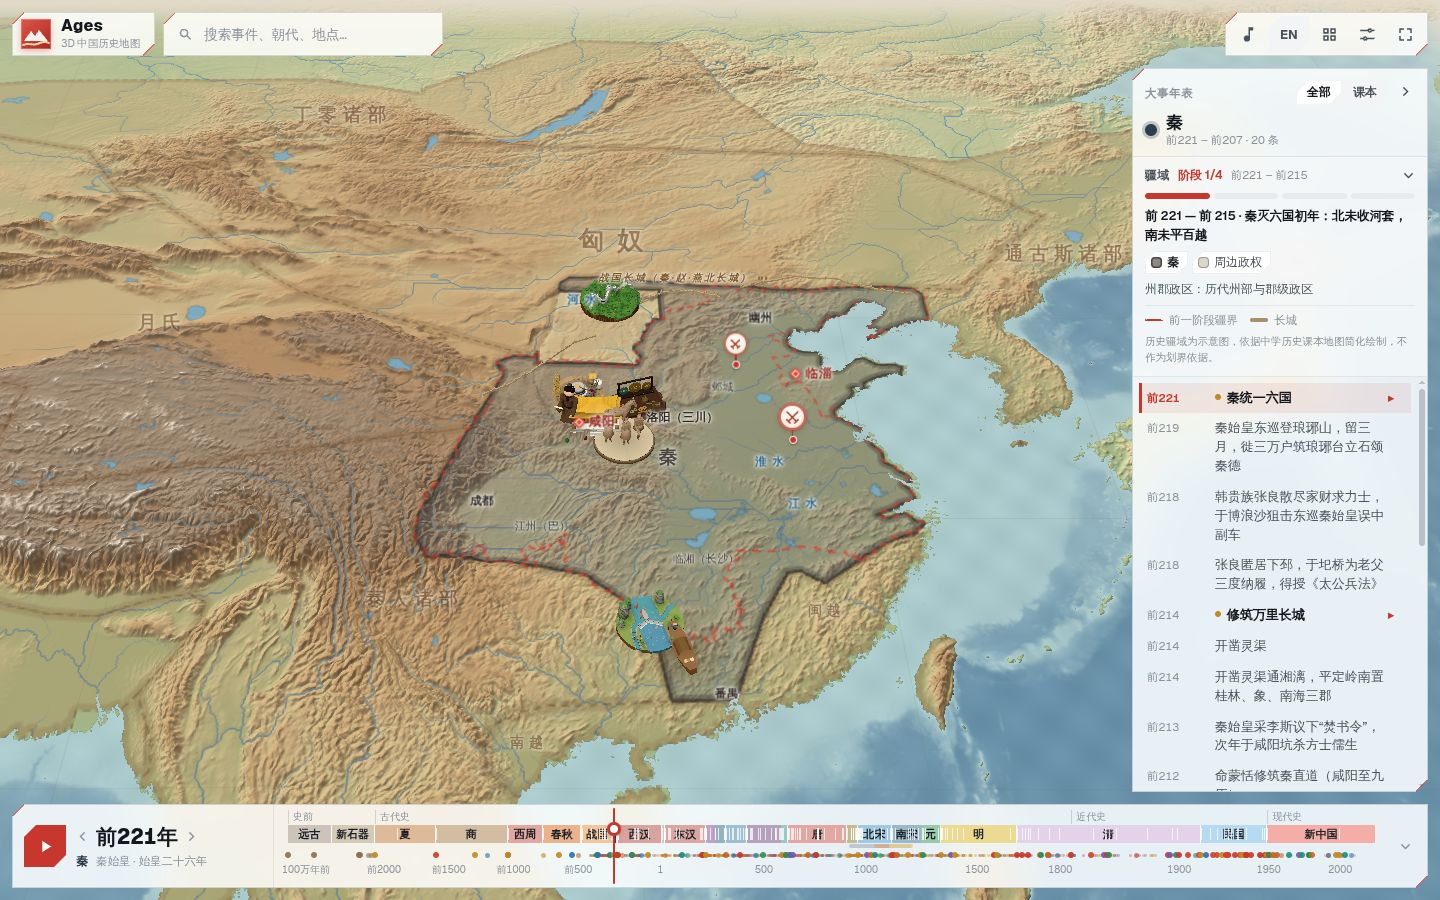
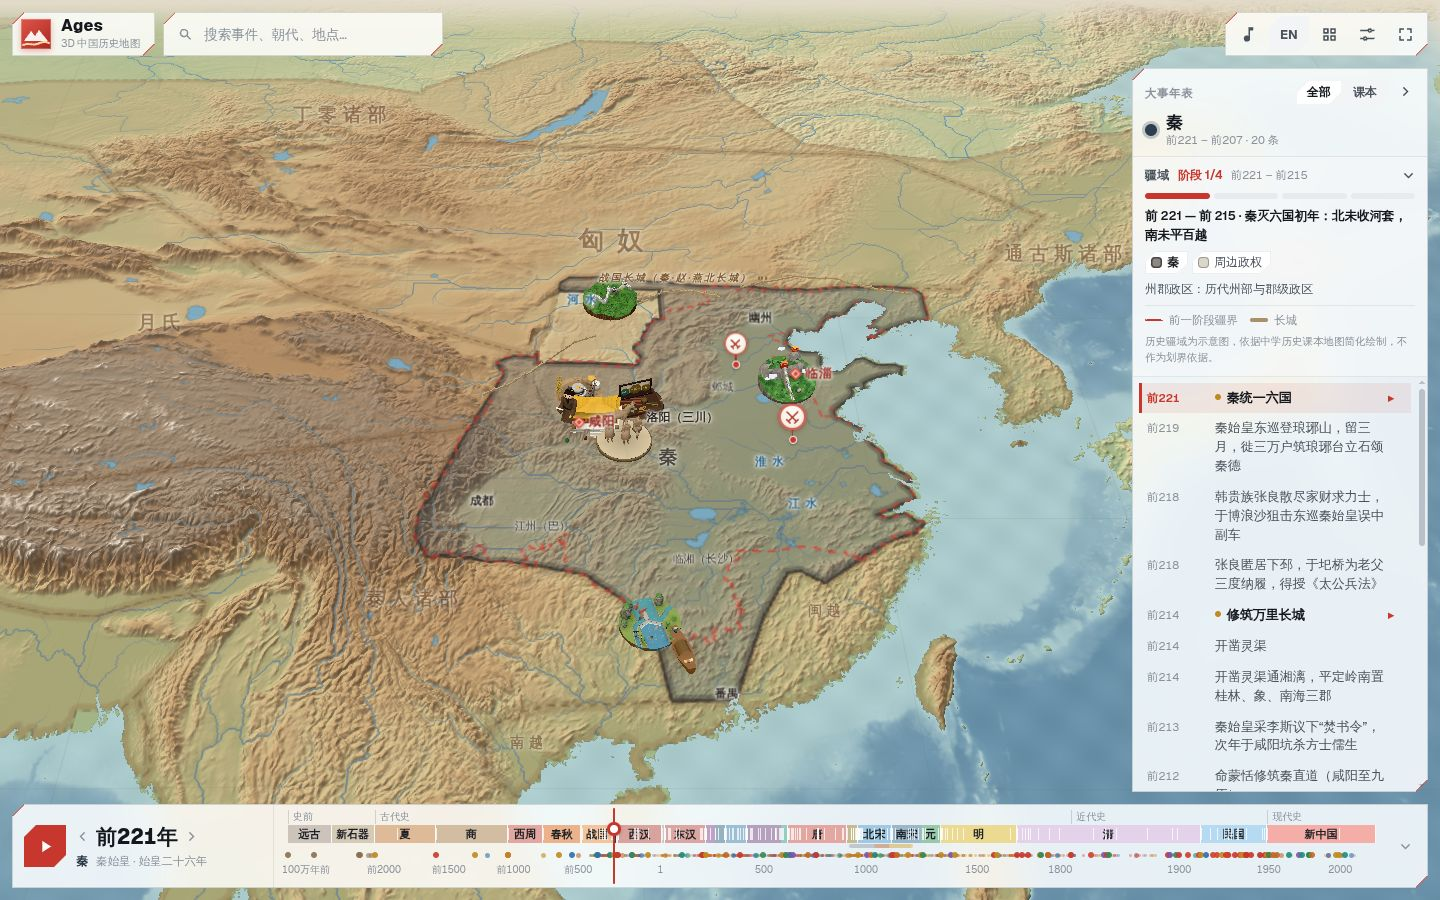
Stand Mount Tai as a model in the feng-shan dynasties; site labels step aside for their own model

diff --git a/src/shared/data/life.ts b/src/shared/data/life.ts
@@ -158,6 +158,8 @@ C('hufu', ['胡服骑射', 'Hu dress and mounted archery'], [114.5, 36.6], hero(
 P('孟子', [116.98, 35.4], { prop: 'book', tier: 2, desc: ['儒家“亚圣”，主张仁政与“民为贵”。', 'Confucianism\'s Second Sage, who preached benevolent rule: "the people matter most".'] });
 
 era('qin');
+B('taishan-qin', ['泰山', 'Mount Tai'], [117.1, 36.25], hero('china/cn_taishan', 'temple'),
+  ['秦始皇东巡登泰山封禅，刻石颂秦德，开历代帝王泰山封禅之先。', 'The First Emperor climbed Mount Tai to perform the feng and shan rites, the first of the imperial sacrifices to Heaven there.'], { wiki: ['封禅', 'Feng Shan'] });
 P('李斯', [108.2, 33.8], { prop: 'brush', desc: ['秦朝丞相，推行小篆“书同文”，统一文字。', 'Qin chancellor who standardised writing in small seal script.'] });
 C('banliang', ['统一度量衡与半两钱', 'Standard measures and coins'], [110.6, 35.2], hero(C1 + 'lf_coins', 'scroll', { style: 'banliang' }),
   ['秦始皇统一货币为圆形方孔“半两”钱，统一度量衡与车轨。', 'The First Emperor made the round, square-holed banliang the only coin and unified weights, measures and axles.'], { wiki: ['半两钱', 'Ban Liang'] });
@@ -168,6 +170,8 @@ F('mill', ['石转磨与面食', 'Rotary mill'], [108.0, 35.6], hero(FD + 'lf_mi
 P('蒙恬', [109.7, 38.3], { prop: 'sword', tier: 2, desc: ['秦大将，北击匈奴，修筑长城与直道。', 'Qin general who drove back the Xiongnu and built the Great Wall and the Straight Road.'] });
 
 era('whan');
+B('taishan-whan', ['泰山', 'Mount Tai'], [117.1, 36.25], hero('china/cn_taishan', 'temple'),
+  ['汉武帝八次东巡泰山，封禅告成功，泰山成为“五岳独尊”。', 'Emperor Wu came to Mount Tai eight times to report his achievements to Heaven, making it the foremost of the Five Peaks.'], { wiki: ['封禅', 'Feng Shan'] });
 P('张骞', [103.8, 36.06], { prop: 'staff', desc: ['两次出使西域，“凿空”丝绸之路。', 'Envoy who twice crossed to the Western Regions, opening the Silk Road.'] });
 P('司马迁', [110.4, 35.47], { prop: 'brush', desc: ['著《史记》，中国第一部纪传体通史。', 'Author of the Records of the Grand Historian, China\'s first comprehensive history.'] });
 B('que', ['汉阙', 'Han que towers'], [107.6, 33.6], hero(A1 + 'lf_que', 'gate'),
@@ -261,6 +265,8 @@ P('李春', [115.4, 38.6], { prop: 'book', year: 600, en: 'Li Chun', desc: ['隋
 P('隋炀帝', [119.4, 32.4], { tier: 2 });
 
 era('tang');
+B('taishan-tang', ['泰山', 'Mount Tai'], [117.1, 36.25], hero('china/cn_taishan', 'temple'),
+  ['725年唐玄宗泰山封禅，御书《纪泰山铭》刻于岱顶石壁。', 'In 725 Emperor Xuanzong held the feng-shan rites and carved his Inscription on Mount Tai into the summit cliff.'], { wiki: ['封禅', 'Feng Shan'] });
 P('武则天', [112.45, 34.62], { role: 'ruler', female: true, desc: ['中国历史上唯一的正统女皇帝，以洛阳为神都。', 'China\'s only reigning empress, who made Luoyang her Divine Capital.'] });
 P('杜甫', [104.03, 30.66], { prop: 'brush', desc: ['“诗圣”，其诗被称为“诗史”，居成都草堂。', 'The Poet Sage whose verse is called "poetic history"; he lived in a thatched cottage in Chengdu.'] });
 P('鉴真', [119.4, 32.4], { role: 'monk', year: 740, en: 'Jianzhen',
@@ -294,6 +300,8 @@ P('赵匡胤', [114.6, 35.6], { tier: 2 });
 
 // ---------------------------------------------------------------------------------------------- Song
 era('bsong');
+B('taishan-bsong', ['泰山', 'Mount Tai'], [117.1, 36.25], hero('china/cn_taishan', 'temple'),
+  ['1008年宋真宗封禅泰山，扩建岱庙天贶殿，此后再无帝王封禅。', 'In 1008 Emperor Zhenzong held the last feng-shan rites and enlarged the Temple of Mount Tai (Dai Miao).'], { wiki: ['封禅', 'Feng Shan'] });
 P('苏轼', [114.87, 30.45], { prop: 'brush', desc: ['文学家、书画家，贬黄州作《赤壁赋》，发明东坡肉。', 'Poet, painter and calligrapher; exiled to Huangzhou he wrote the Red Cliff odes.'] });
 P('李清照', [117.0, 36.67], { desc: ['婉约派女词人，“寻寻觅觅，冷冷清清”。', 'Greatest woman poet of the Song: "Searching, seeking, cold and lonely."'] });
 LIFE_LIST[LIFE_LIST.length - 1].model = { kind: 'person', role: 'woman', year: 1110, prop: 'brush', bare: true };

diff --git a/src/client/scene/atlas.ts b/src/client/scene/atlas.ts
@@ -80,6 +80,8 @@ export class Atlas {
   onLife: (l: LifeItem) => void = () => {};
   private pins = new Map<string, Label>();
   private placeLabels = new Map<string, Label>();
+  /** sites (not cities) whose own model stands on the map: their name is in the model's tooltip, so the label steps aside */
+  private modelPlaces = new Set<string>();
   private riverLabels: [RiverLabel, Label][] = [];
   private polityLabels: Label[] = [];
   private fade: { t: number; tex: THREE.Texture; wipe?: { dur: number; r: number } } | null = null;
@@ -544,7 +546,7 @@ export class Atlas {
     for (const [id, l] of this.placeLabels) {
       const p = PLACE.get(id)!;
       const name = mapName(p, this.year);
-      l.off = !name;
+      l.off = !name || this.modelPlaces.has(id);
       if (!name) continue;
       const cap = isCapital(p, this.year);
       const text = tr(name, this.lang);
@@ -660,9 +662,13 @@ export class Atlas {
     this.sceneryKey = key;
     this.fx.clear('scenery');
     this.sceneryMarks.clear();
+    const items = era && key ? sceneryOf(era) : [];
+    this.modelPlaces = new Set(PLACES.filter(p => p.kind !== 'city' && items.some(({ life: l }) =>
+      l && l.kind !== 'person' && Math.hypot(l.lon - p.lon, l.lat - p.lat) < 0.5 && (l.name.zh.startsWith(p.name.zh) || l.wiki.zh === p.name.zh))).map(p => p.id));
+    this.updatePlaces();
     if (!era || !key) return;
     // models carry no name plates: hovering one shows its name in the map tooltip, clicking opens its card
-    for (const s of sceneryOf(era)) {
+    for (const s of items) {
       const p = s.person, l = s.life;
       const ev = !p && !l && s.event ? EVENTS.find(x => x.id === s.event) : undefined;
       const minor = s.tier === 2;

diff --git a/src/shared/data/scenery.ts b/src/shared/data/scenery.ts
@@ -113,7 +113,7 @@ export function sceneryOf(era: Era, events: HistEvent[] = EVENTS): SceneryItem[]
 
 let twins: Map<string, HistEvent> | null = null;
 /**
- * The textbook event a life item stands for (same Wikipedia article or title, in its dynasty, on the same spot):
+ * The event a life item stands for (same Wikipedia article, or a title naming it, in its dynasty, on the same spot):
  * 赵州桥 the building and 赵州桥 the event. On the map the model then speaks for the event and its pin steps aside.
  */
 export function lifeEvent(l: LifeItem): HistEvent | undefined {
@@ -123,7 +123,7 @@ export function lifeEvent(l: LifeItem): HistEvent | undefined {
       const era = ERAS.find(e => e.id === x.era);
       if (!era) continue;
       const e = EVENTS.find(e => e.scope === 'china' && e.year >= era.start && e.year <= era.end && Math.hypot(e.lon - x.lon, e.lat - x.lat) < 0.3 &&
-        ((!!e.wiki?.zh && e.wiki.zh === x.wiki?.zh) || e.title.zh === x.name.zh));
+        ((!!e.wiki?.zh && e.wiki.zh === x.wiki?.zh) || e.title.zh === x.name.zh || (x.kind !== 'person' && e.title.zh.includes(x.name.zh))));
       if (e) twins.set(x.id, e);
     }
   }

diff --git a/tests/unit/data.test.ts b/tests/unit/data.test.ts
@@ -251,6 +251,13 @@ describe('dynasty scenery', () => {
       expect(sceneryOf(era).filter(i => i.life).length, era.id).toBe(lifeOf(era.id).length);
     }
   });
+
+  it('stands Mount Tai on its own spot in the dynasties of the feng-shan rites', () => {
+    for (const id of ['qin', 'whan', 'tang', 'bsong']) {
+      const t = sceneryOf(ERAS.find(e => e.id === id)!).find(i => i.life?.id === `taishan-${id}`);
+      expect(t && [t.lon, t.lat], id).toEqual([117.1, 36.25]);
+    }
+  });
 });
 
 describe('imported jiangshan-map content', () => {

diff --git a/docs/product/spec.md b/docs/product/spec.md
@@ -14,7 +14,7 @@ Chinese middle-school (grades 7–8, 统编版 textbooks) and high-school studen
 ## Features (phase 1)
 | Area | Behaviour |
 |---|---|
-| Scene | 3D terrain relief of East Asia, territory overlay with crossfades, polity labels, period place, river and lake names (a modern name is never printed before it was in use; shifted Yellow River courses and vanished lakes show only in their years), one label type scale ([typography](../design/typography.md)), finer terrain relief streamed in close up, models and labels that grow as you zoom in, capital marker model, the dynasty's scenery (its representative people, buildings, customs and foods as detailed models with clickable cards, plus landmark models of its key events and more of its people in period dress; detail items appear as you zoom in), event pins as kind-glyph badges; every model and pin shows a tooltip (name and subtitle) on hover, grows with a glowing ground ring, and opens its card on click; the open card's object keeps a selection ring (the only selection mark); a pin hides while a model stands for its event; routes, trails and rings are painted on the map as unbroken lines and perfect circles that hills never cut; pan / rotate / zoom (mouse, touch, keyboard) |
+| Scene | 3D terrain relief of East Asia, territory overlay with crossfades, polity labels, period place, river and lake names (a modern name is never printed before it was in use; shifted Yellow River courses and vanished lakes show only in their years), one label type scale ([typography](../design/typography.md)), finer terrain relief streamed in close up, models and labels that grow as you zoom in, capital marker model, the dynasty's scenery (its representative people, buildings, customs and foods as detailed models with clickable cards, plus landmark models of its key events and more of its people in period dress; detail items appear as you zoom in), event pins as kind-glyph badges; every model and pin shows a tooltip (name and subtitle) on hover, grows with a glowing ground ring, and opens its card on click; the open card's object keeps a selection ring (the only selection mark); a pin hides while a model stands for its event, and a site's name label (e.g. 泰山, 赵州桥) hides while its own model stands there; routes, trails and rings are painted on the map as unbroken lines and perfect circles that hills never cut; pan / rotate / zoom (mouse, touch, keyboard) |
 | Timeline | Non-linear axis about 1 Ma → today; age headings; era bands (click opens the era card); territorial-phase ticks; dots for all 907 events with tooltips; floating year flag with reign era; ‹ year › stepper with typed years (1415 / -221 / 前221 / 221 BC); drag, click, arrow keys (Shift ±10), auto-play; readout shows year, era and ruler |
 | Chronicle | Right panel listing the dynasty's events (all / textbook filter); current year highlighted and auto-scrolled; ◆ map change, ▶ scripted story; folds to a tab |
 | Phase legend | Phase i/N with jump dots, polity chips (hover highlights, click flies), phase note, line key; previous phase drawn as a dashed ghost border |
